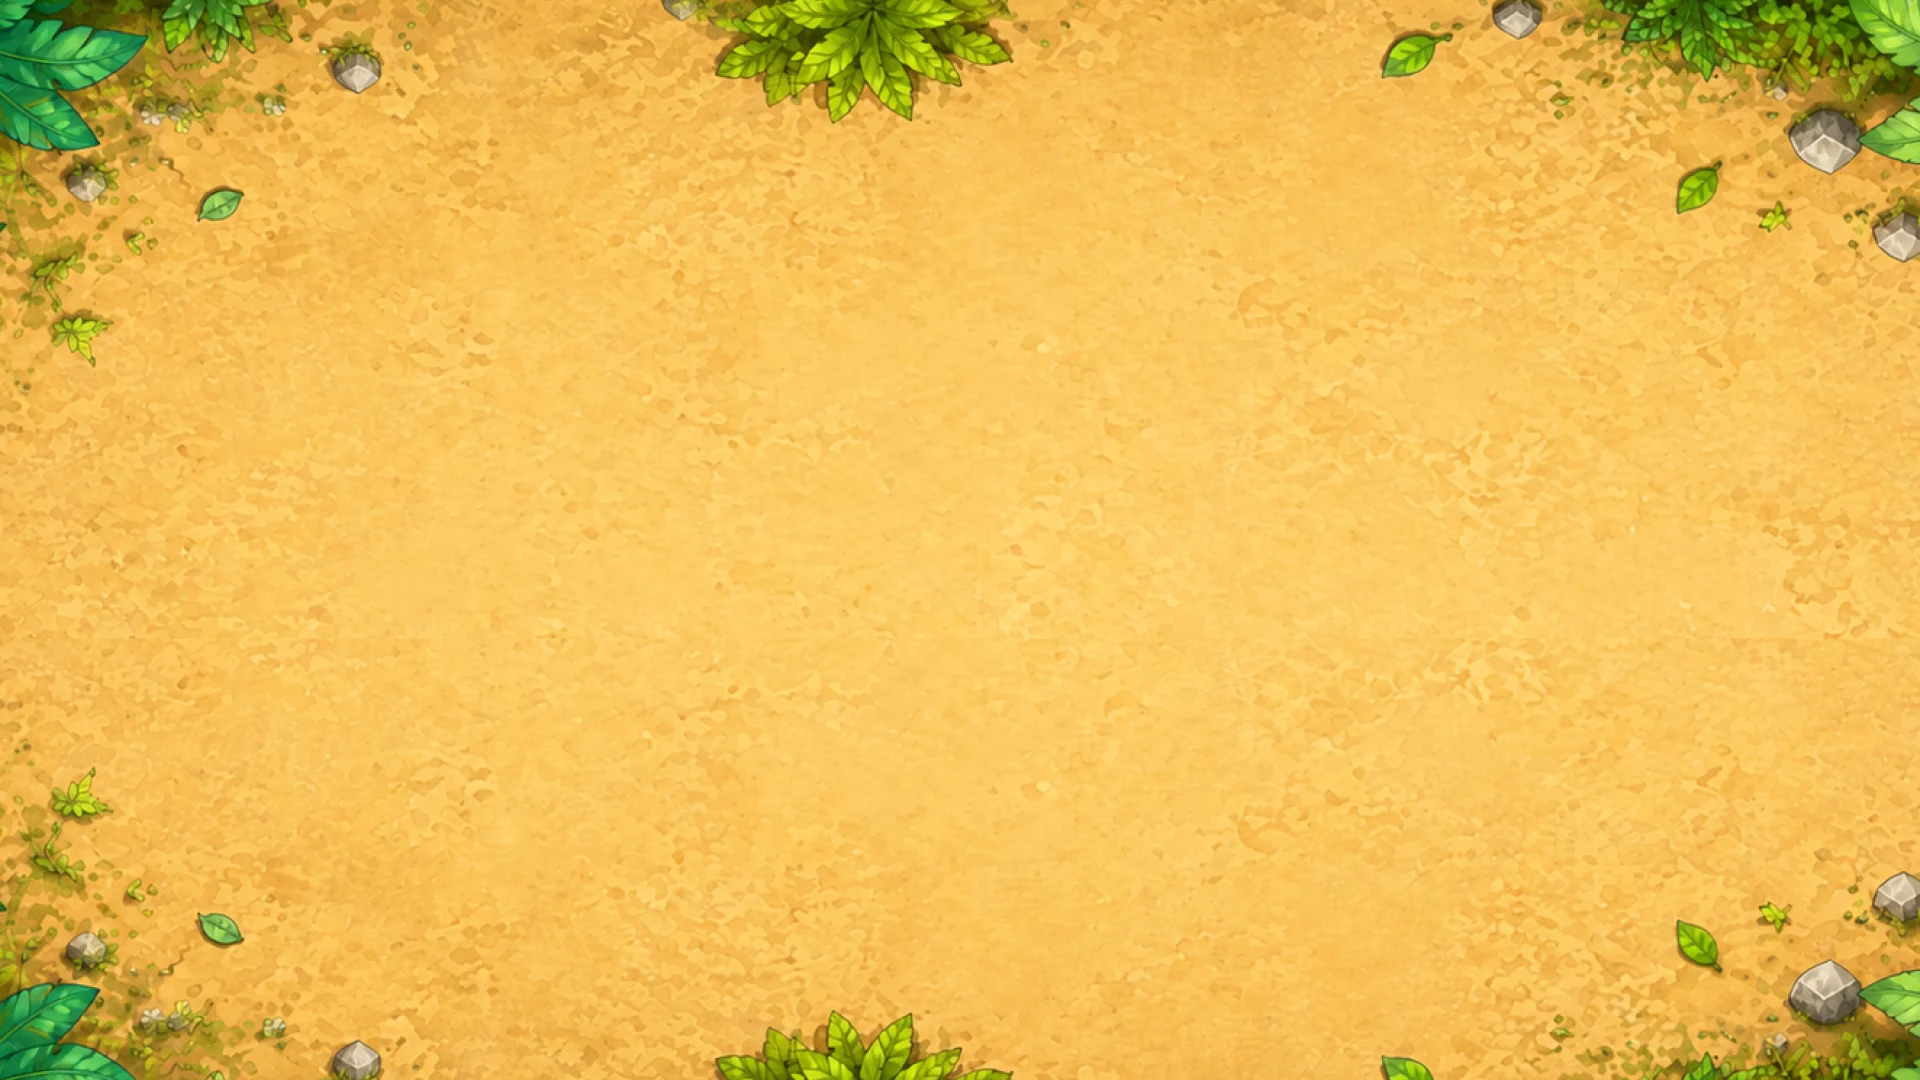
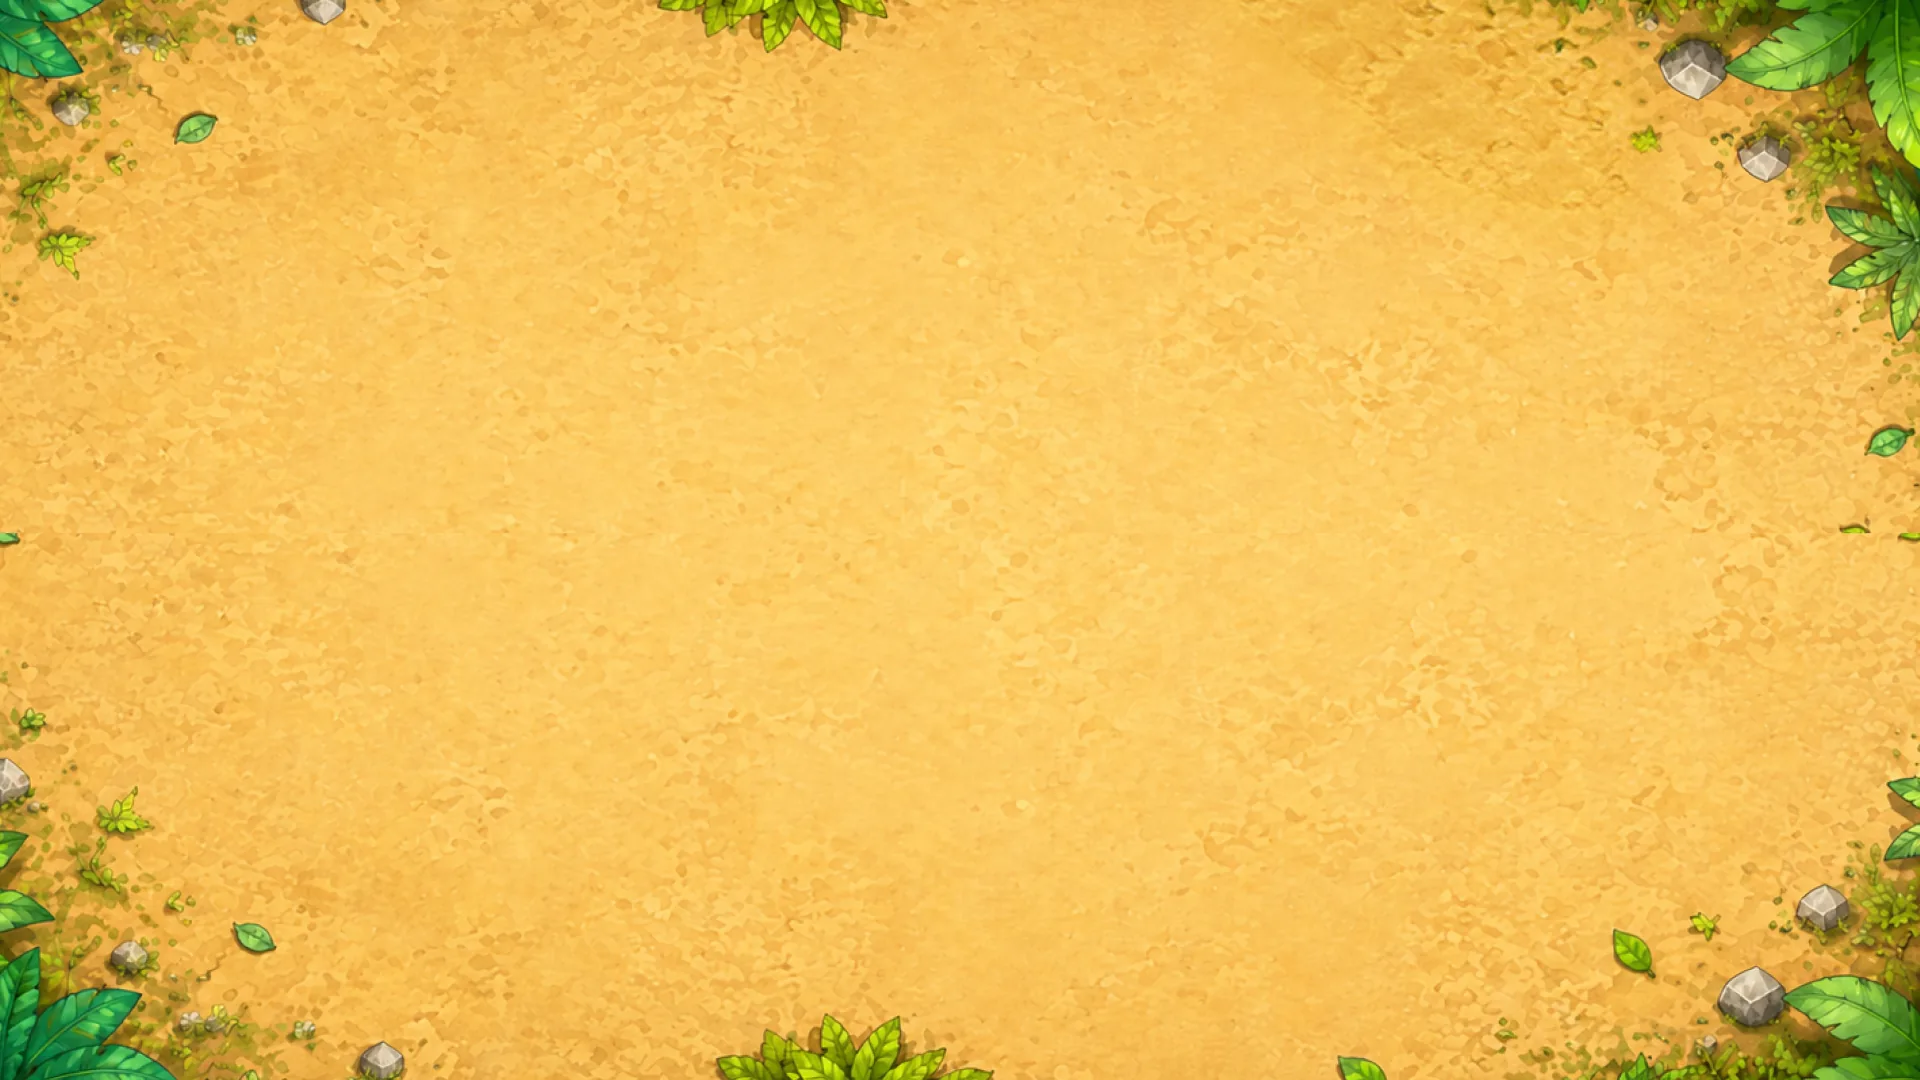
change background and change item position

diff --git a/index.html b/index.html
@@ -758,11 +758,15 @@ function loadLevel(i, skipHint){
   const n = items.length;
   const IX0 = 805, IX1 = 1705, ITEM_CY = 255;        // item band: upper-right (centres x≈1030 / x≈1480), above the boxes (y408)
   const cellW = (IX1 - IX0) / n;
+  // randomly mirror the two slots so the long/short item isn't ALWAYS the same side —
+  // but ONLY in the game levels; the tutorial (level 0) keeps its fixed layout
+  const flip = (i !== 0) && (Math.random() < 0.5);
   // every piece flies OUT OF THE NEST PILE to its spot — the pile is the source
   const nr = nestEl.getBoundingClientRect();
   const nc = toStage(nr.left + nr.width/2, nr.top + nr.height*0.45);
   items.forEach((it,j)=>{
-    const cx = IX0 + cellW*((n-1-j) + 0.5);          // short item on the left, long on the right
+    const slot = flip ? j : (n-1-j);                 // which cell this item lands in (side varies per level)
+    const cx = IX0 + cellW*(slot + 0.5);
     const cy = ITEM_CY;
     // a level may pin an item's exact spot (left/top); otherwise centre it in its cell
     const left = (it.left !== undefined) ? it.left : cx - it.w/2;

diff --git a/progress.md b/progress.md
@@ -99,7 +99,7 @@ friendly queen-bee mascot.
 |--------------------|----------|
 | Bee instructor `#bee` | top-left (`left:185 top:40`), faces right, hover-bobs; **tapping her plays a bee buzz (`Audio.buzz`) + a cheer + a sparkle ring**. Speech bubble appears **only during the tutorial** (typewriter text via `setBubble`) — the main game has no dialogue/text, just cheers, sounds and effects |
 | Nest pile `#nest` (`pile.webp`) | bottom-left (`left:-15 top:480`, 590px wide, `pointer-events:none`) — the **source of all materials**: every level's items fly out of it to the band, and it **thins out each level** (`updatePile`: scales 1→0.4 + fades toward the ground; on the **last level it shrinks away completely** — pile fully used up). Resets on Play Again |
-| Items (2 per level) | upper-right band, **short item on the LEFT, long on the RIGHT** (`IX0=805, IX1=1705, ITEM_CY=255` → centres x≈1030 / x≈1480). Each item's **size + tilt is set per-level** in `LEVELS` (`w/h/rot`); pieces lie **nearly flat** (`rot` ≈ −66°…−90°) so the two lengths read side-by-side |
+| Items (2 per level) | upper-right band (`IX0=805, IX1=1705, ITEM_CY=255` → centres x≈1030 / x≈1480). **Sides are randomised in the game levels** (`flip = (i!==0) && Math.random()<0.5`) so the long/short piece isn't always the same side — the **tutorial (level 0) keeps its fixed layout** (short left, long right). Each item's **size + tilt is set per-level** in `LEVELS` (`w/h/rot`); pieces lie **nearly flat** (`rot` ≈ −66°…−90°) so the two lengths read side-by-side |
 | `Long` box `#basketLong`  | stone frame `group-38510`, `left:676 top:408`, `570×435`; "Long" title centred **inside** the box — **Fredoka One** 92px, `#804206`, `opacity:.45` (written-into-sand look, no stroke) |
 | `Short` box `#basketShort`| stone frame `group-38510`, `right:42 top:408`, `570×435`; "Short" title inside the box, same style |
 
@@ -129,14 +129,14 @@ Items lie nearly flat so the two lengths read side-by-side. Long-category → **
 ## Assets (`assets/`, all WebP unless noted)
 
 **In use**
-- `background.webp` — sandy ground with foliage corners (also the splash bg)
+- `background.webp` — sandy play area with leafy/rock corners (1920×1080; also the splash bg; converted from PNG, 2.8 MB → 141 KB)
 - `group-38510.webp` — grey stone-pebble box frame (both drop boxes)
 - `pile.webp` — twig nest pile with feathers (bottom-left decoration; converted from PNG, 540 KB → 178 KB)
 - `cover-page.webp` — title-screen art ("Sort the items" with a nest in the "o"; converted from PNG, ~2.8 MB → 434 KB)
 - `play-button.svg` — round orange ▶ Play button on the title screen
 - `play-again.svg` — orange "Play Again" pill button on the finale screen
 - `last-screen.webp` — finale scene background: both stone boxes **filled with the sorted items** + the
-  nest in the corner (1672×941, 16:9; shown full-bleed via `center/cover`; converted from `last-screen.png`, 2.8 MB → 283 KB)
+  nest in the corner (1681×935, ~16:9; shown full-bleed via `center/cover`; converted from PNG, 2.9 MB → 317 KB)
 - `dialogue-box.svg` — **white speech bubble** with a thin gold-gradient border and a tail **bottom-left**
   (556×307, aspect ≈1.81). Used for the splash, hand-off + tutorial bee bubble, and the finale. Each
   bubble's box size + position is tuned per-screen so the **tail connects to the bee** without overlap and